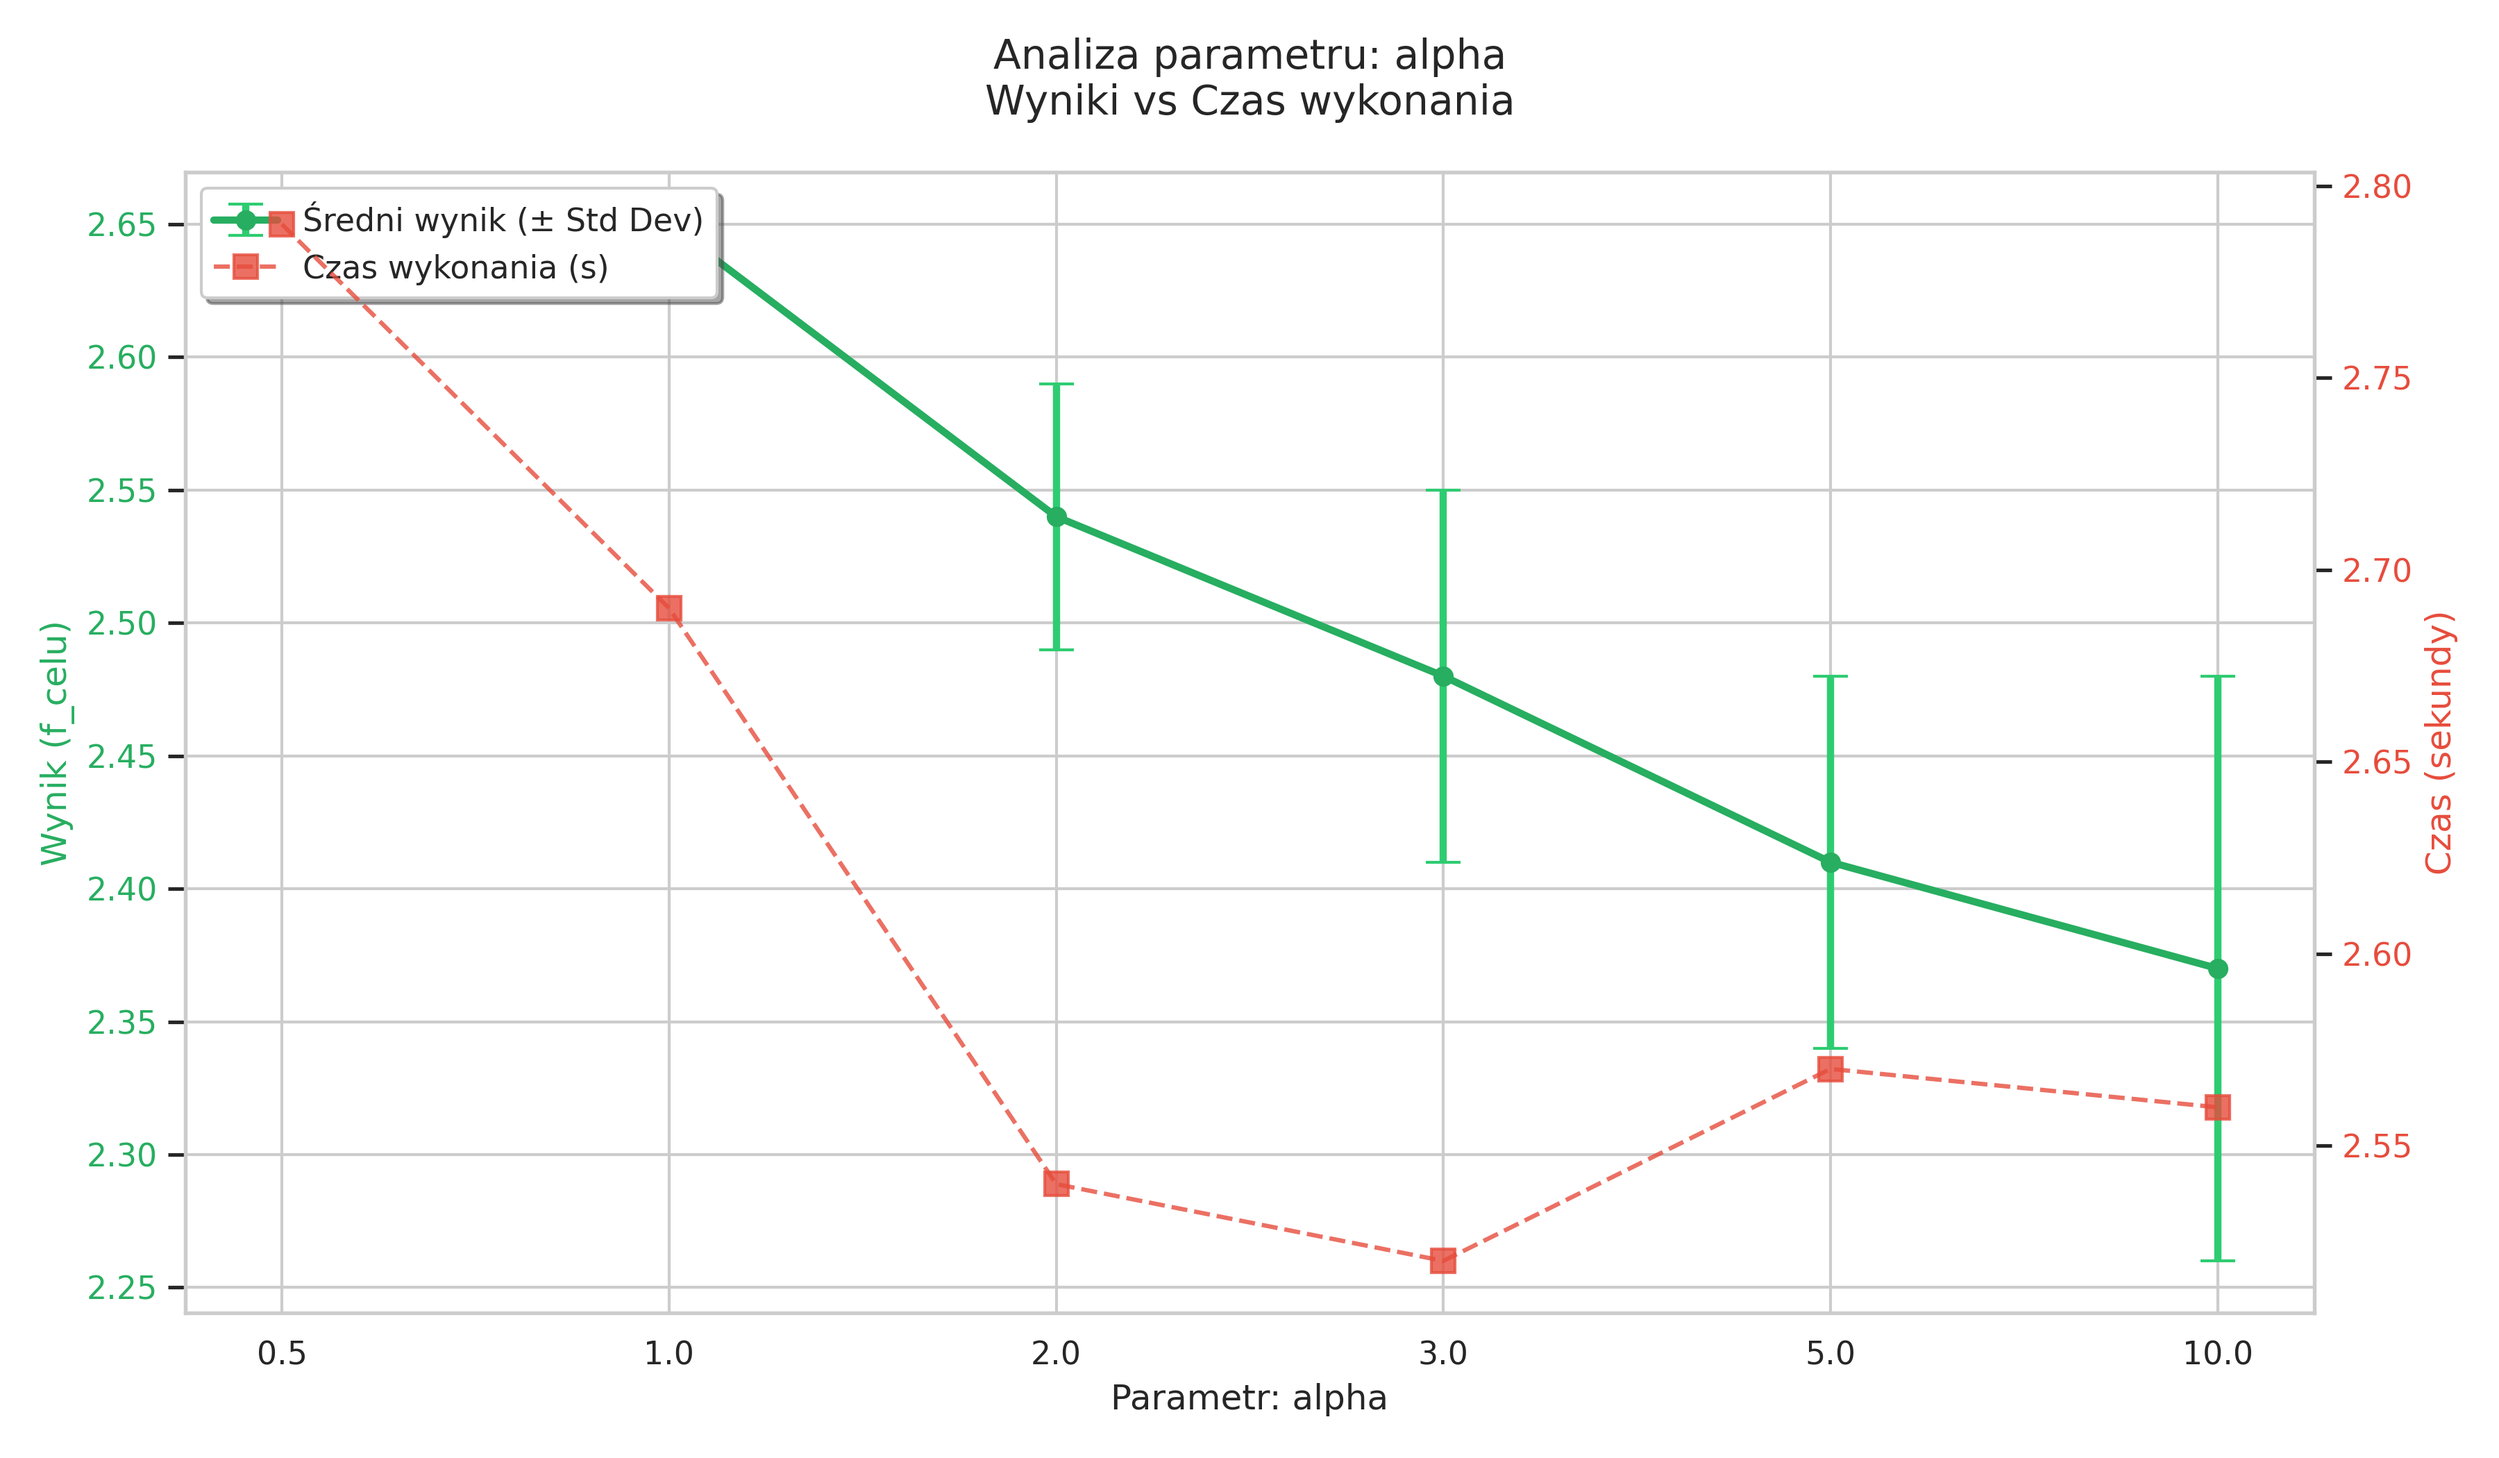
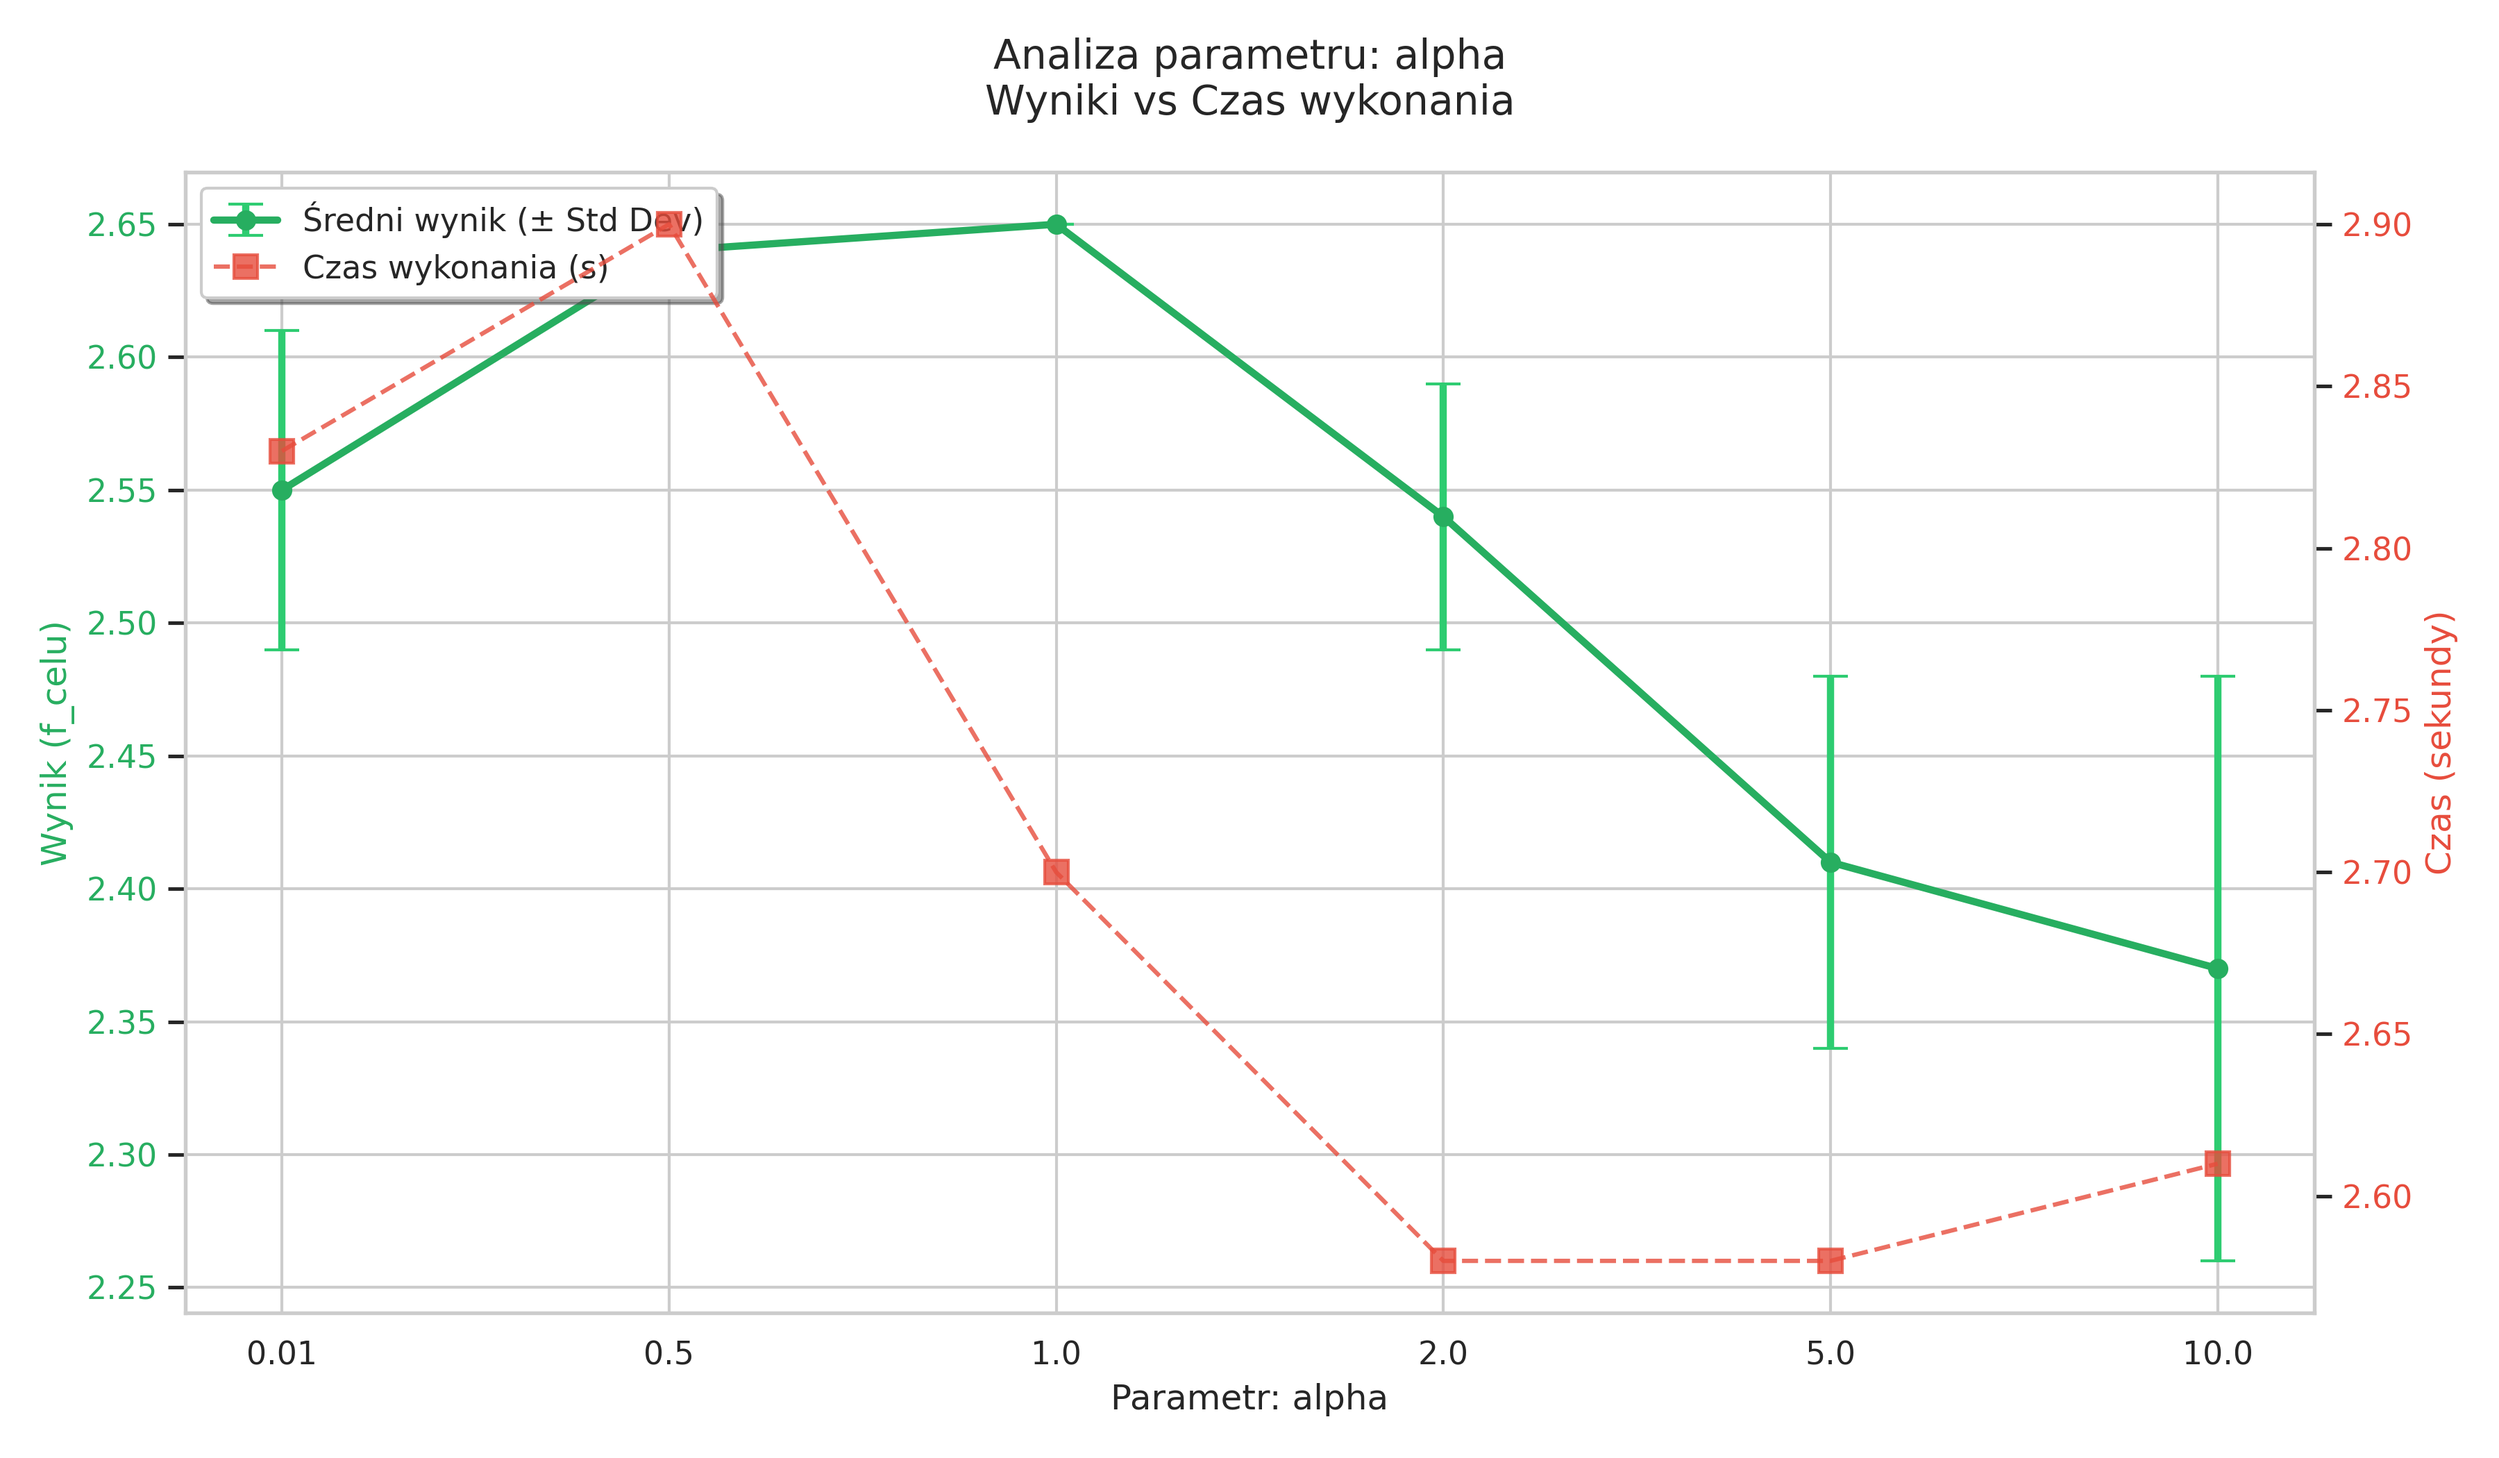
adjust alpha-beta tuning params

diff --git a/experiment/experiments/params_tuning/aco.py b/experiment/experiments/params_tuning/aco.py
@@ -44,8 +44,7 @@ def tune_aco_ant_count() -> list[Experiment]:
 def tune_aco_alpha() -> list[Experiment]:
     experiment_name = "aco_tune_alpha"
     experiments = []
-    pairs = [0.5, 1.0, 2.0, 3.0, 5.0, 10.0]
-    for alpha in pairs:
+    for alpha in [0.01, 0.5, 1.0, 2.0, 5.0, 10.0]:
         experiment = Experiment(
             name=experiment_name,
             graph=Graph(scenario=GraphScenario.BASIC, params=BasicGraphParams()),
@@ -71,8 +70,7 @@ def tune_aco_alpha() -> list[Experiment]:
 def tune_aco_beta() -> list[Experiment]:
     experiment_name = "aco_tune_beta"
     experiments = []
-    pairs = [0.5, 1.0, 2.0, 3.0, 5.0, 10.0]
-    for beta in pairs:
+    for beta in [0.01, 0.5, 1.0, 2.0, 5.0, 10.0]:
         experiment = Experiment(
             name=experiment_name,
             graph=Graph(scenario=GraphScenario.BASIC, params=BasicGraphParams()),
